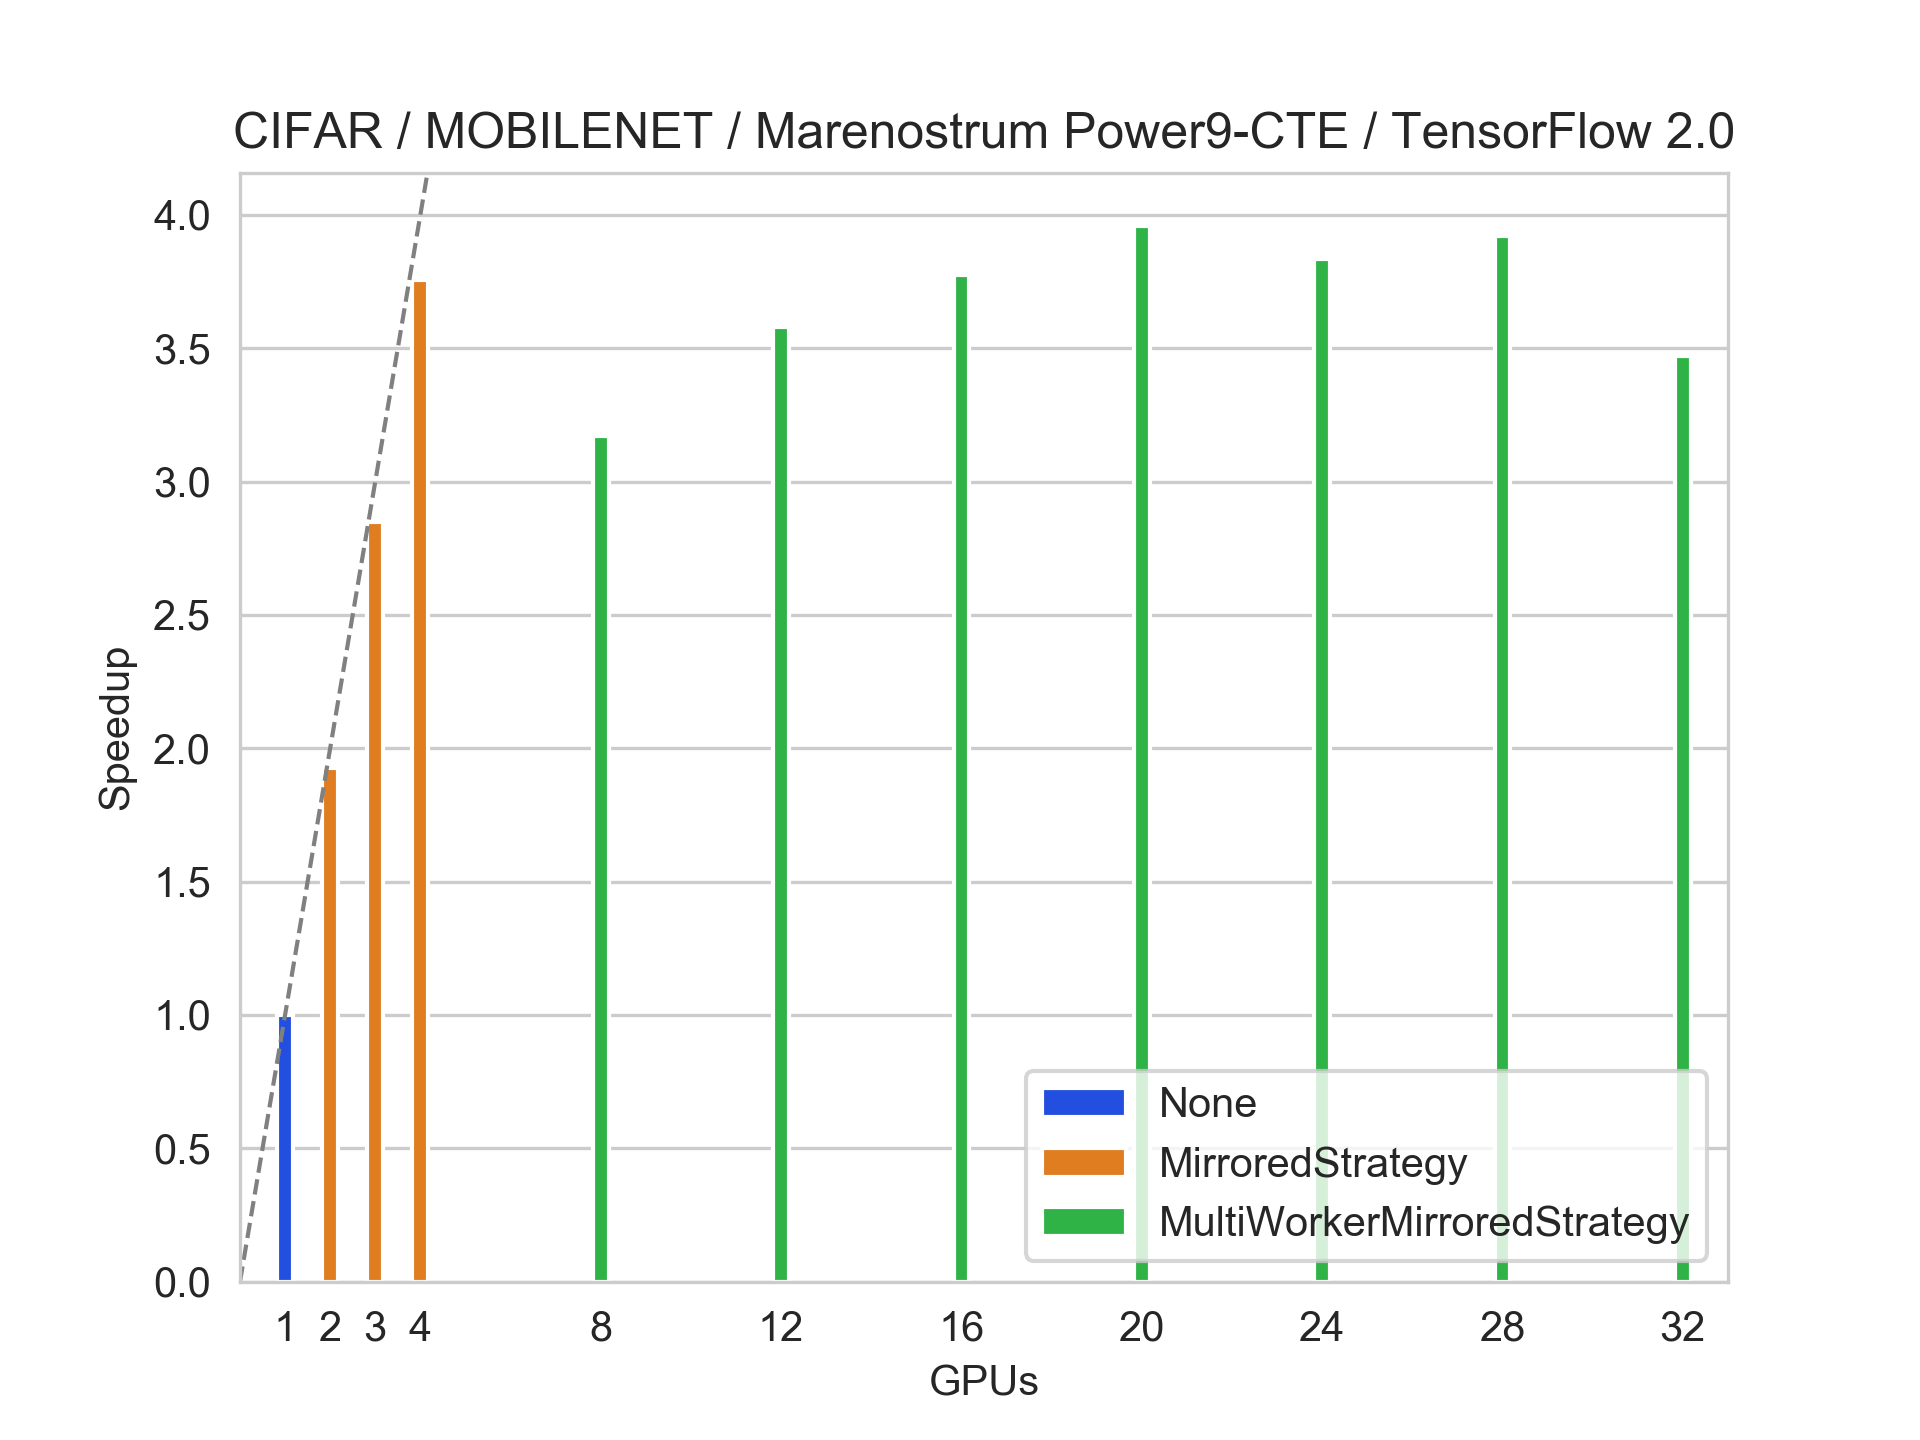
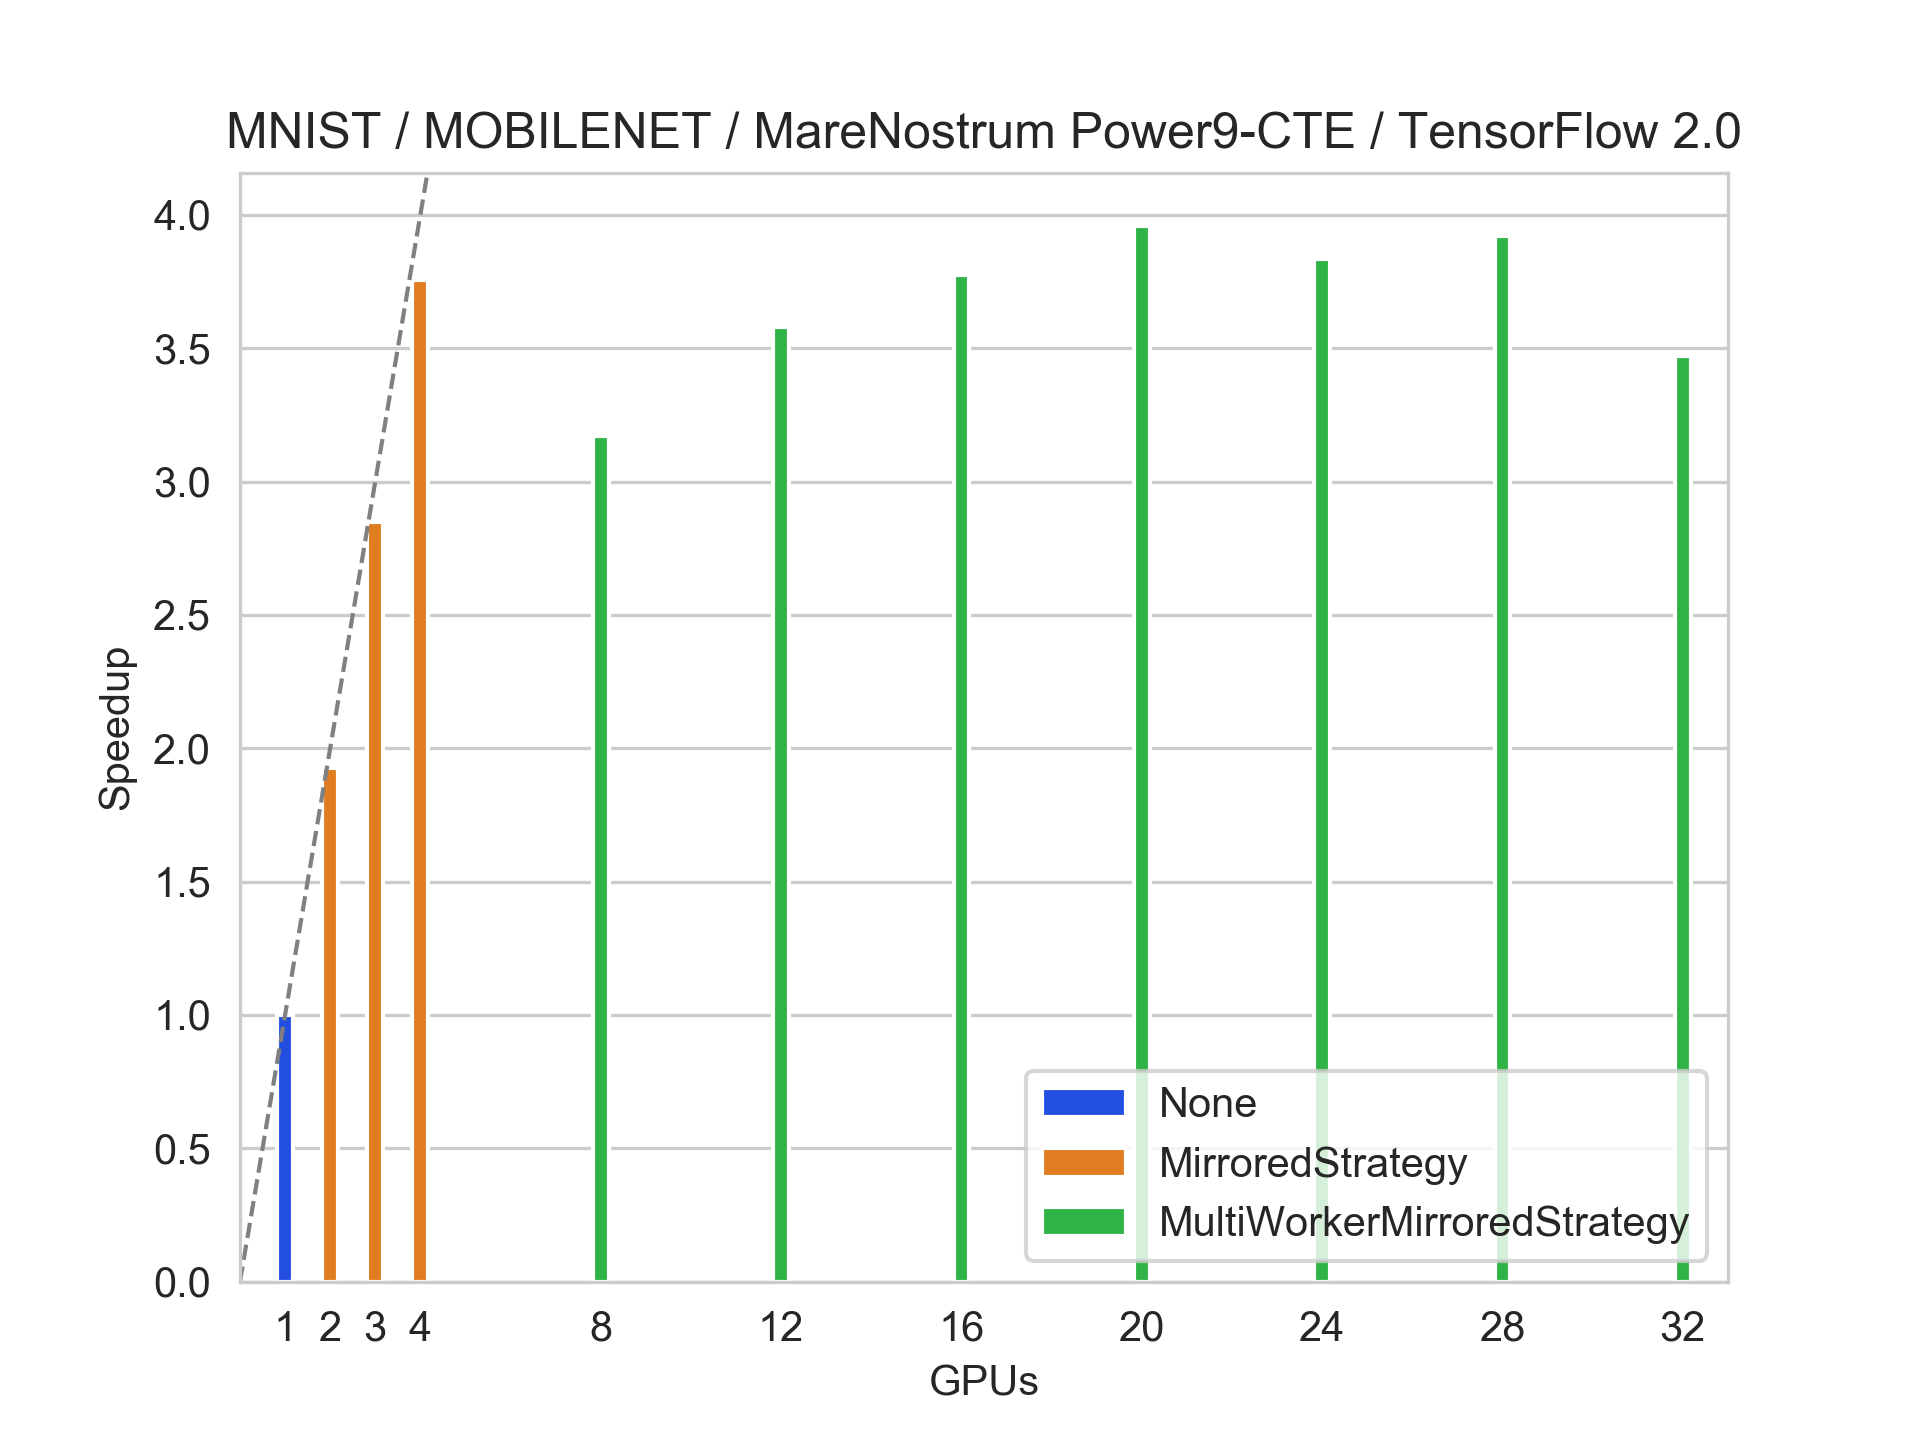
Fix bug with architecture set to None

Changed region(s): [[0.375, 0.0625, 0.9062, 0.125], [0.125, 0.0625, 0.2812, 0.125], [0.3125, 0.0625, 0.3438, 0.0938]]

diff --git a/plot_generator.py b/plot_generator.py
@@ -67,8 +67,9 @@ def generate_plot(args):
 
         architecture_regex_result = re.search(REGEX_ARCHITECTURE, file_content)
         architecture = None if not architecture_regex_result else architecture_regex_result.groups()[0]
+        architecture = None if 'sequential' in architecture else architecture
 
-        if (not args.architecture and args.architecture == architecture) or (architecture and args.architecture in architecture):
+        if (not args.architecture and args.architecture == architecture) or (args.architecture and architecture and args.architecture in architecture):
             results_dict['GPUs'].append(int(no_of_devices))
             results_dict['Time'].append(float(time))
             results_dict['Strategy'].append(strategy)
@@ -89,7 +90,7 @@ def generate_plot(args):
 
     if not args.architecture:
         args.architecture = "SA-MIRI's network"
-    ax.set_title("{} / {} / Marenostrum Power9-CTE / TensorFlow 2.0".format(args.dataset, args.architecture.upper()))
+    ax.set_title("{} / {} / MareNostrum Power9-CTE / TensorFlow 2.0".format(args.dataset, args.architecture.upper()))
     ax.set_xlim(0, df['GPUs'].max() + 1)
     ax.set_xticklabels(["" if tick in missing_gpus else tick for tick in df['GPUs'].values])
 
